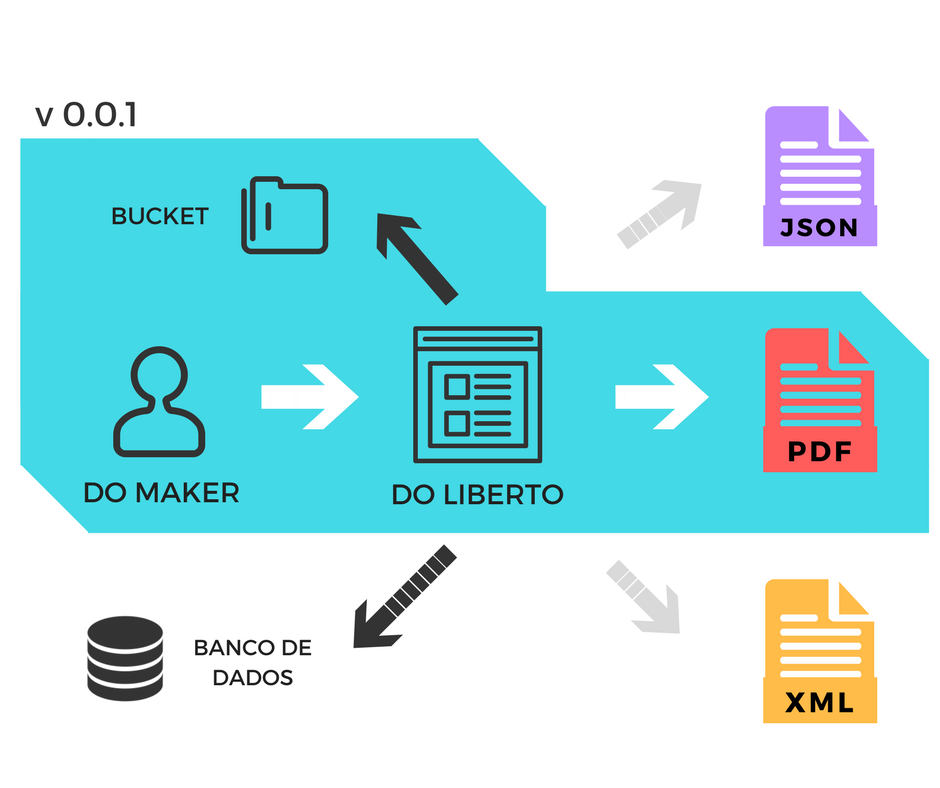
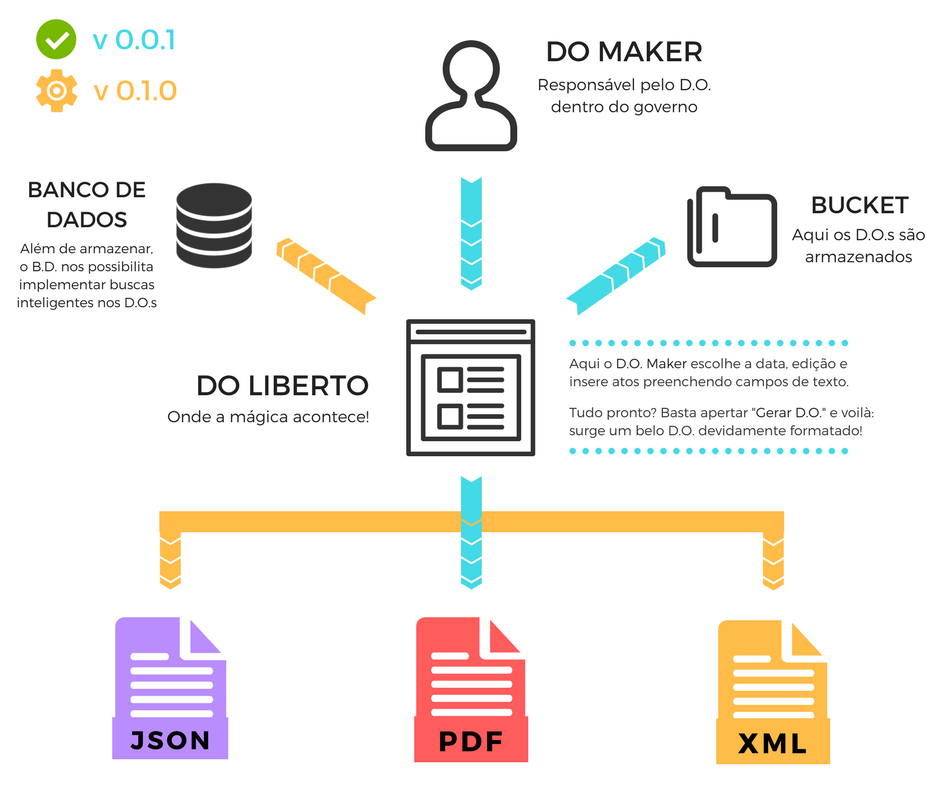
novo esquema + comentários + antigas mods

diff --git a/dev.md b/dev.md
@@ -16,16 +16,10 @@ O projeto se baseia em dois pilares:
 - Ser uma solução escalável, possibilitando adoção por municípios e estados.
 
 ## Quais os problemas do D.O. nos dias de hoje?
-- Disponíveis somente em PDF:
-    - Sem indexação e interligação (barsa vs. wikipedia)
-    - Buscas não são simples nem customizáveis
-- Não há sistema de alertas
-
-## Por que captura não funciona?
-
-- Falta de padronização dos DOs (entre órgãos e temporalmente)
-- PDF não é o formato correto
-- Diário Oficial não é consistente
+- **Formato PDF não possui indexação**,  o que torna as buscas não tão simples nem customizáveis;
+- **Diferentes órgãos usam diferentes formatações**, ou seja, não existe um padrão para facilitar
+ as pesquisas e o uso pela população. 
+<!-- não há sistema de alertas: o que significa? -->
 
 ## Como funciona o DOliberto
 
@@ -37,22 +31,25 @@ nosso foco é no **processo de construção do DO**.
 ![Esquema DO Liberto](/images/esquema_doli.png)
 Format: ![Esquema DOLiberto](url)
 
-Logo, o *DOli 0.0.1* faz o básico: 
-
-Na plataforma, o **DO Maker** 
-(responsável pelo DO no órgão) insere os textos dos atos, 
-o **DO Liberto** formata e organiza essas informações, 
-e gera um arquivo PDF.
-
 
 ## Objetivos DOliberto
 
-- Criar um padrão aberto (subordinado ao LeXML) para intercâmbio,
+[X] **Facilitar a elaboração de um D.O. consistente simplificando o
+  trabalho do servidor público e reduzindo os erros.**
+[ ] Criar um padrão aberto (subordinado ao LeXML) para intercâmbio,
   identificação e estruturação das informações contidas nos diários
   oficiais, que seja legível por humanos e computadores.
-- Facilitar a elaboração de um D.O. consistente simplificando o
-  trabalho do servidor público e reduzindo os erros.
-- Versionar as informações disponibilizadas pelo D.O.: sem
+[ ] Versionar as informações disponibilizadas pelo D.O.: sem
   possibilidade de obter informações desatualizadas.
 
+
 ## Como contribuir
+
+Todo nosso trabalho está [disponível no GitHub](https://github.com/labFGV/DOliberto/)!
+
+As etapas e features a serem desenvolvidas estão organizadas em [issues](https://github.com/labFGV/DOliberto/issues) com diferentes categorias,
+onde você pode participar da discussão de cada detalhe do projeto.
+
+Achou algo legal para desenvolver? Basta fazer um *pull request* para o nosso
+repositório e avaliaremos as modificações para serem incorporadas ao código! ;)
+

diff --git a/index.md b/index.md
@@ -19,7 +19,7 @@ assim fundamental para o processo democrático.**
 
 ## Vantagens
 
-- Redução de erros nas publicações (correção)
+- Redução de erros nas publicações (*correção*)
 - Links entre matérias relacionadas e versões do mesmo documento 
   (*eficiência*)
 - Acesso livre ao texto: buscas simples e eficientes, sistemas de
